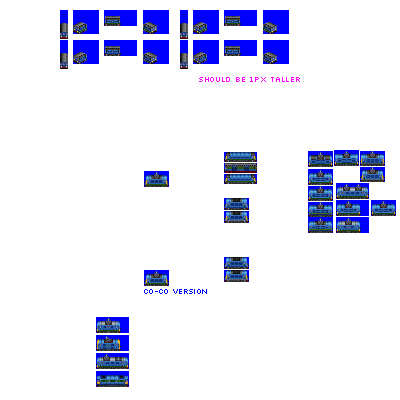
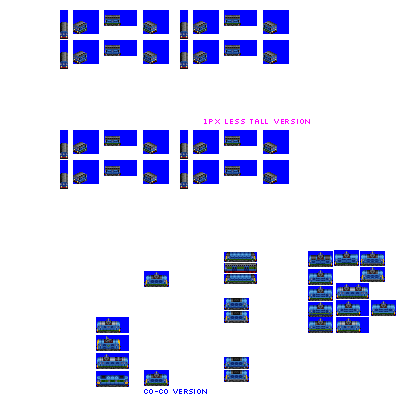
Change: make larger pony metro engines 1px taller to match the larger metro units

diff --git a/src/vehicles/pony/angerstein.py b/src/vehicles/pony/angerstein.py
@@ -19,7 +19,7 @@ def main(roster_id, **kwargs):
         extended_vehicle_life=True,
         # note that livery names are metadata only and can repeat for different spriterows
         additional_liveries=["INDUSTRIAL_YELLOW"],
-        sprites_complete=False,
+        sprites_complete=True,
     )
 
     consist.add_unit(

diff --git a/src/vehicles/pony/borax.py b/src/vehicles/pony/borax.py
@@ -19,7 +19,7 @@ def main(roster_id, **kwargs):
         extended_vehicle_life=True,
         # note that livery names are metadata only and can repeat for different spriterows
         additional_liveries=["INDUSTRIAL_YELLOW"],
-        sprites_complete=False,
+        sprites_complete=True,
     )
 
     consist.add_unit(

diff --git a/src/vehicles/pony/walbrook.py b/src/vehicles/pony/walbrook.py
@@ -18,7 +18,7 @@ def main(roster_id, **kwargs):
         extended_vehicle_life=True,
         # note that livery names are metadata only and can repeat for different spriterows
         additional_liveries=["INDUSTRIAL_YELLOW"],
-        sprites_complete=False,
+        sprites_complete=True,
     )
 
     consist.add_unit(
